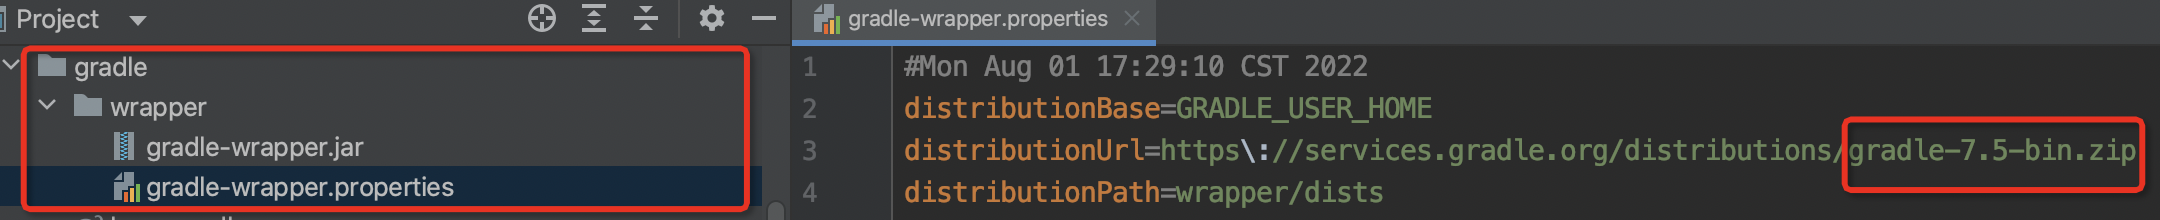
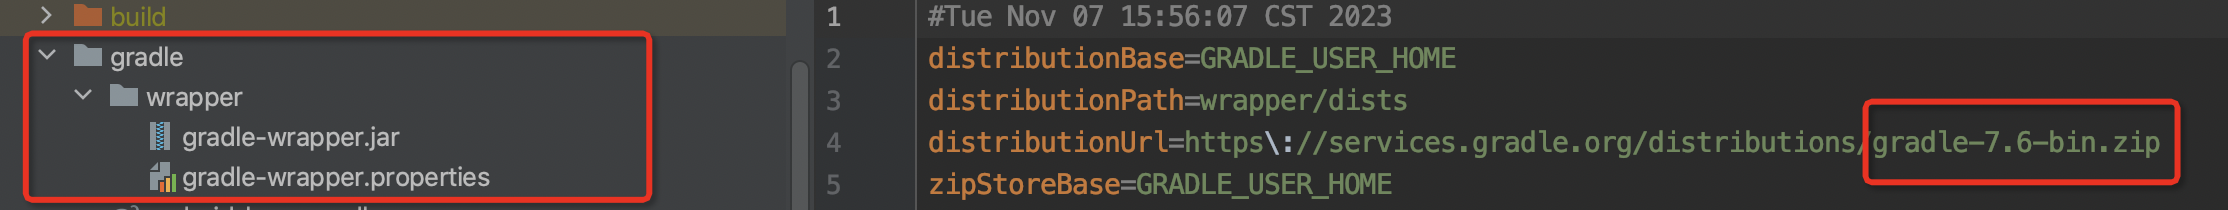
1、修改最低版本

diff --git a/README.md b/README.md
@@ -35,7 +35,7 @@
 
 ### 版本限制
 
-最低Gradle版本：7.5👇（支持8.0以上）
+最低Gradle版本：7.6👇（支持8.0以上）
 
 <img src="/screenshot/gradle_version.png" alt="show" />
 

diff --git a/README_EN.md b/README_EN.md
@@ -33,7 +33,7 @@
 
 ### Version restrictions
 
-Minimum Gradle version: 7.5👇
+Minimum Gradle version: 7.6👇
 
 <img src="/screenshot/gradle_version.png" alt="show" height="220px" />
 
